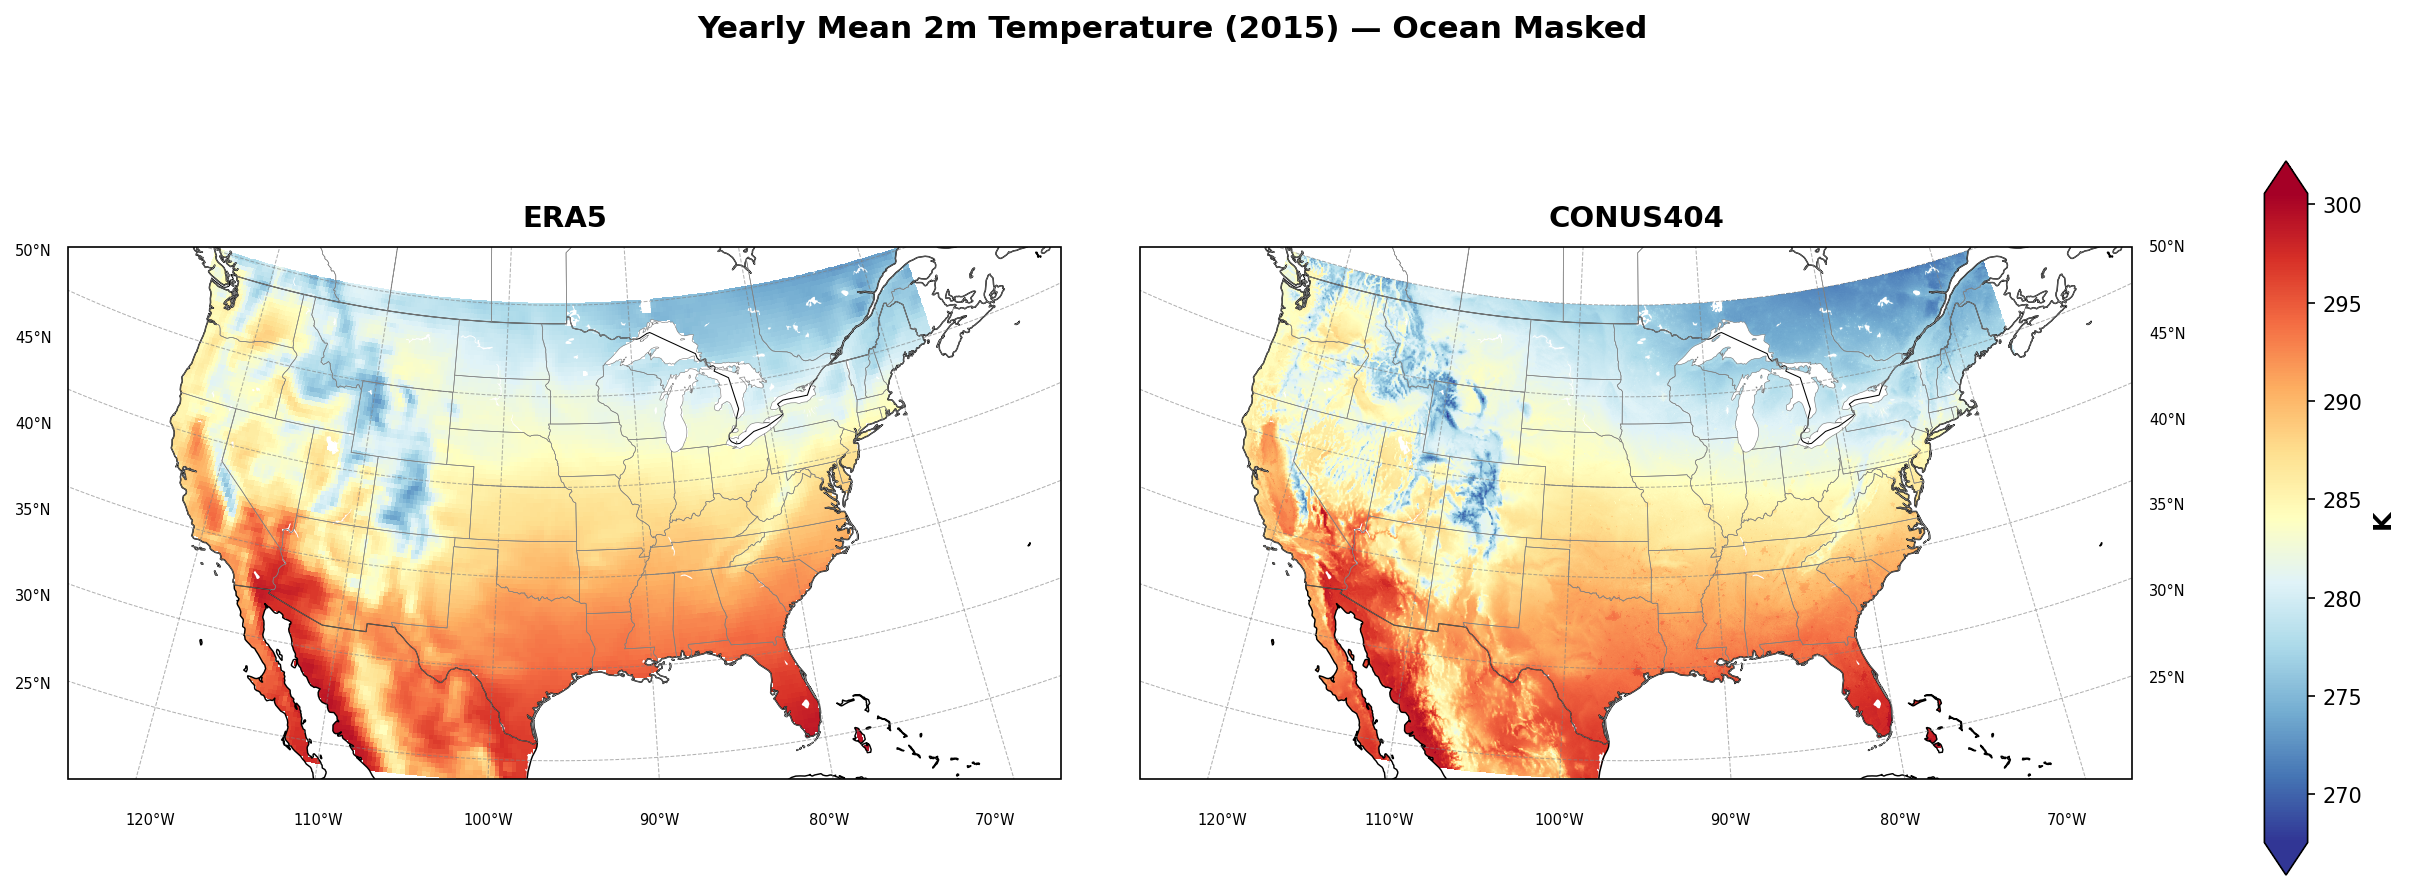
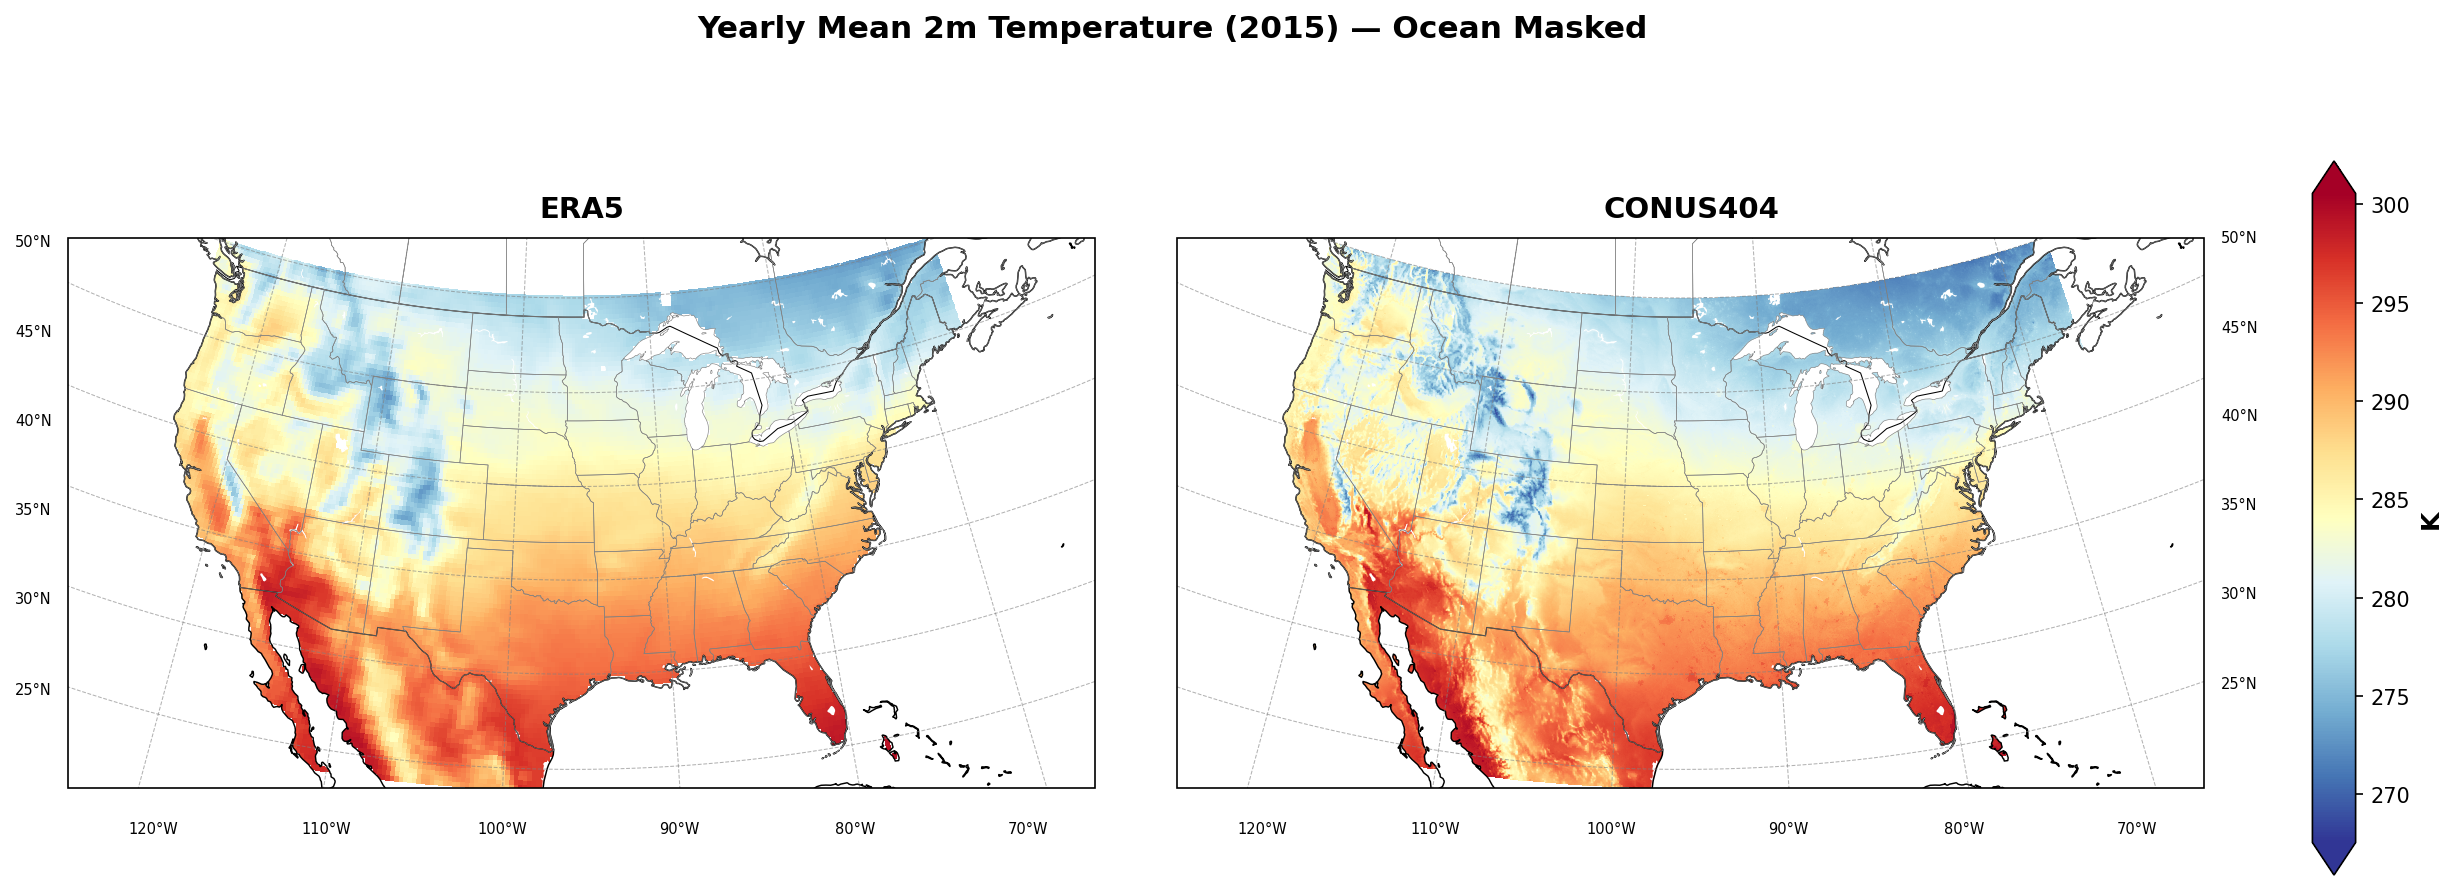
Move colorbar even closer to CONUS404 panel

diff --git a/gen_t2m_plot.py b/gen_t2m_plot.py
@@ -119,7 +119,7 @@ vmax = max(np.nanmax(era_arr), np.nanmax(conus_arr))
 # ── plot ─────────────────────────────────────────────────────────────────────
 fig = plt.figure(figsize=(16, 7))
 # two equal map panels, leave the right 15% of the figure for lat labels + colorbar
-gs = gridspec.GridSpec(1, 2, left=0.04, right=0.90, wspace=0.08)
+gs = gridspec.GridSpec(1, 2, left=0.04, right=0.93, wspace=0.08)
 
 ax1 = fig.add_subplot(gs[0], projection=proj)
 im1 = ax1.pcolormesh(lon_e, lat_e, era_arr, transform=ccrs.PlateCarree(),
@@ -134,7 +134,7 @@ add_map_features(ax2, lat_side='right')
 ax2.set_title('CONUS404', fontsize=14, fontweight='bold', pad=10)
 
 # colorbar placed explicitly well to the right of the lat labels
-cax = fig.add_axes([0.955, 0.15, 0.018, 0.68])
+cax = fig.add_axes([0.975, 0.15, 0.018, 0.68])
 fig.colorbar(im2, cax=cax, extend='both').set_label('K', fontsize=12, fontweight='bold')
 
 fig.suptitle(f'Yearly Mean 2m Temperature ({YEAR}) — Ocean Masked',
